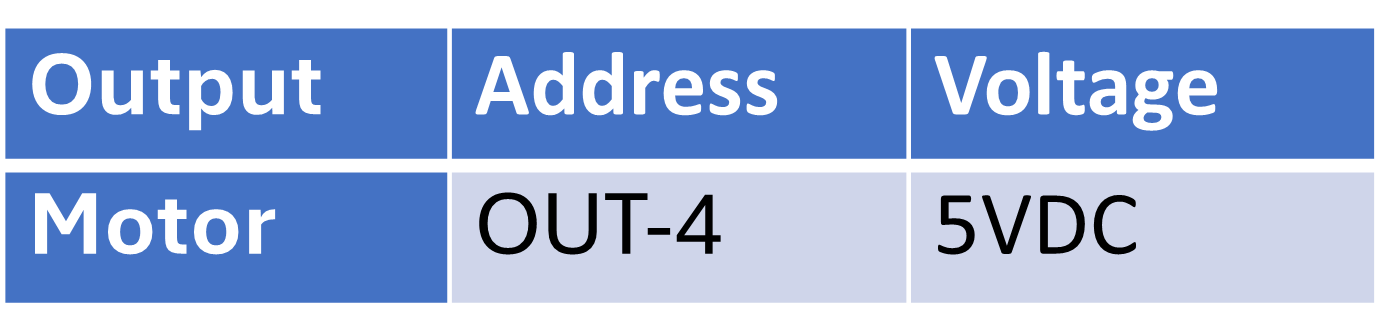
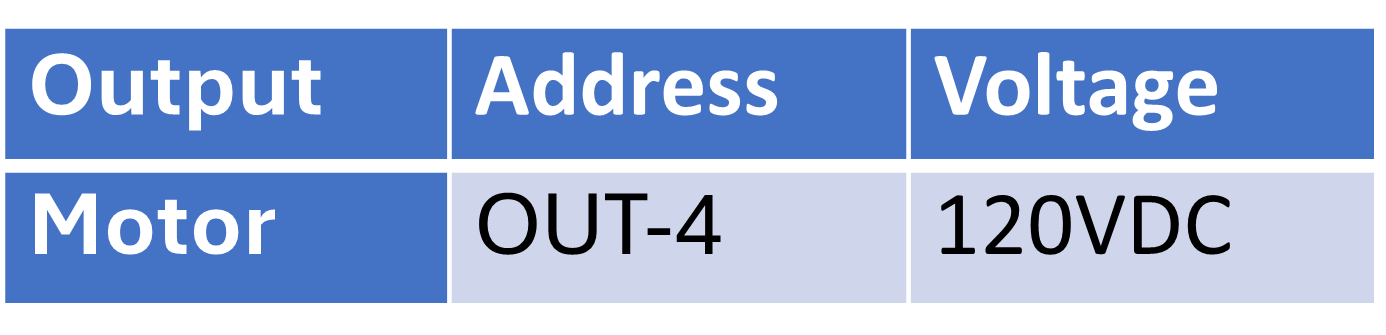
Change the 5V to 120V / Change connection orders

Changed region(s): [[0.6515, 0.5672, 0.8997, 0.7761], [0.4343, 0.5672, 0.4654, 0.597]]

diff --git a/src/components/CaseCanvas/casePLCOutput.js b/src/components/CaseCanvas/casePLCOutput.js
@@ -1,10 +1,6 @@
 import {apiBaseUrl, renderDefault, stageInstance} from "@/components/CaseCanvas/konvaCore.js";
 import {renderImage, renderText} from "@/components/CaseCanvas/konvaUtils.js";
-import {
-    animationStep3_1_1,
-    animationStep5_1_1,
-    animationStep7_1_1
-} from "@/components/CaseCanvas/caseStudy1Animation.js";
+
 
 export function renderCasePLCOutputStep(currentStepId) {
     // 根据 ID 调用对应的渲染函数
@@ -33,7 +29,7 @@ function renderStep1_1_1() {
         fontSize:20,
         padding:0,
         align: 'left',
-        text: 'In a widget assembly line, a PLC is used in the packaging process, ensuring that each box is packed with 5 widgets. A motor drives the conveyor. \n' +
+        text: 'In a widget assembly line, a PLC is used in the packaging process, ensuring that each box is packed with 5 widgets. A 24V motor drives the conveyor. \n' +
             '\nAssume that only one stack is on the conveyor at a time.'})
 
     renderImage({
@@ -59,7 +55,7 @@ function renderStep1_1_2() {
         maxWidth: stageInstance.getWidth() * 0.6,
         imageSrc: apiBaseUrl + '/assets/images/PLCInterfacing/output/table.png'
     }).then((imageObject) => {
-        let text2 = renderText({
+        renderText({
             x: 0,
             padding:0,
             fontSize:20,
@@ -71,7 +67,7 @@ function renderStep1_1_2() {
 
 function renderStep1_1_3() {
 
-    let text = renderText({
+    renderText({
         x: 0,
         y: 10,
         padding:0,
@@ -91,7 +87,7 @@ function renderStep1_2_1() {
         fontSize:20,
         padding:0,
         align: 'left',
-        text: 'In a widget assembly line, a PLC is used in the packaging process, ensuring that each box is packed with 5 widgets. A motor drives the conveyor. \n' +
+        text: 'In a widget assembly line, a PLC is used in the packaging process, ensuring that each box is packed with 5 widgets. A 120V motor drives the conveyor. \n' +
             '\nAssume that only one stack is on the conveyor at a time.'})
 
     renderImage({
@@ -100,12 +96,12 @@ function renderStep1_2_1() {
         maxWidth: stageInstance.getWidth() * 0.6,
         imageSrc: apiBaseUrl + '/assets/images/PLCInterfacing/output/demo2.png'
     }).then((imageObject) => {
-        let text = renderText({
+        renderText({
             x: 0,
             y: imageObject.y() +imageObject.height() + 20,
             padding:0,
             fontSize:20,
-            text: 'Since the motor\'s operating voltage has changed from 24V to 5V, it cannot be directly connected to the 24V circuit. Therefore, a relay is needed to allow the 24V output to control the motor.'
+            text: 'Since the motor\'s operating voltage has changed from 24V to 120V, it cannot be directly connected to the 24V circuit. Therefore, a relay is needed to allow the 24V output to control the motor.'
         })
     })
 

diff --git a/public/assets/properties/Properties_Task.js b/public/assets/properties/Properties_Task.js
@@ -1612,8 +1612,7 @@ const PLCIN2 = {
         x: 400, y: 700, Port: ["24VP", "24VN"]
     },
 
-    "Key": [["IN-0", "SWL"], ["SWR", "24VP"], ["24VN", "GNDPLCR"],["IN-2","RLSWU"],["RLSWDR", "24VP"],
-        ["RLCU", "SL"], ["SR", "5VN"], ["5VP","RLCD"]]
+    "Key": [["24VP","SWL"],["SWR","IN-0"],["GNDPLCR","24VN"],["24VP", "RLSWU"], ["RLSWDR", "IN-2"], ["5VP","SL"],["SR","RLCU"],["RLCD","5VN"]]
 };
 
 
@@ -1638,7 +1637,7 @@ const PLCOUT2 = {
         x: 600, y: 700, Port: ["24VP", "24VN"]
     },
 
-    "Key": [["24VP", "DC-4"],["OUT-4", "RLCU"],  ["RLCD", "24VN"], ["5VP", "MTL"],["MTR", "RLSWU"], ["RLSWDR", "5VN"]]
+    "Key": [["24VP", "DC-4"],["OUT-4", "RLCU"],  ["RLCD", "24VN"], ["5VP", "RLSWU"],["RLSWDR", "MTR"], ["MTL", "5VN"]]
 };
 
 const PLCIN1 = {
@@ -1654,7 +1653,7 @@ const PLCIN1 = {
         x: 650, y: 200, Port: ["SWL", "SWR"]
     },
 
-    "Key": [["IN-0", "SWL"], ["SWR", "24VP"],["GNDPLCR", "24VN"]]
+    "Key": [["24VP", "SWL"], ["SWR", "IN-0"],["GNDPLCR", "24VN"]]
 };
 
 const PLCOUT1 = {
@@ -1687,9 +1686,9 @@ const DictModule = {
     P22: PEngineBlockStage2,
     P23: PIronBarkStage1,
     P24: PIronBarkStage2,
-    P25: PLCIN2,
-    P26: PLCOUT2,
-    P27: PLCIN1,
-    P28: PLCOUT1
+    P25: PLCIN1,
+    P26: PLCIN2,
+    P27: PLCOUT1,
+    P28: PLCOUT2
 };
 

diff --git a/public/assets/properties/Properties_Page.js b/public/assets/properties/Properties_Page.js
@@ -51,10 +51,10 @@ const STPage = {
                     "2-9.2.2":"P22",
                     "3-9.1.2":"P23",
                     "3-9.2.2":"P24",
-                    "PLC_IN-1.1.4":"P27",
-                    "PLC_IN-1.2.4":"P25",
-                    "PLC_OUT-1.1.5":"P28",
-                     "PLC_OUT-1.2.3":"P26",
+                    "PLC_IN-1.1.4":"P25",
+                    "PLC_IN-1.2.4":"P26",
+                    "PLC_OUT-1.1.5":"P27",
+                     "PLC_OUT-1.2.3":"P28",
                 }
 
 const WireDemoPage = {
@@ -65,10 +65,10 @@ const WireDemoPage = {
     "2-9.2.1":"P22",
     "3-9.1.1":"P23",
     "3-9.2.1":"P24",
-    "PLC_IN-1.1.3":"P27",
-    "PLC_IN-1.2.3":"P25",
-    "PLC_OUT-1.1.4":"P28",
-    "PLC_OUT-1.2.2":"P26",
+    "PLC_IN-1.1.3":"P25",
+    "PLC_IN-1.2.3":"P26",
+    "PLC_OUT-1.1.4":"P27",
+    "PLC_OUT-1.2.2":"P28",
 }
 
 // all test page
